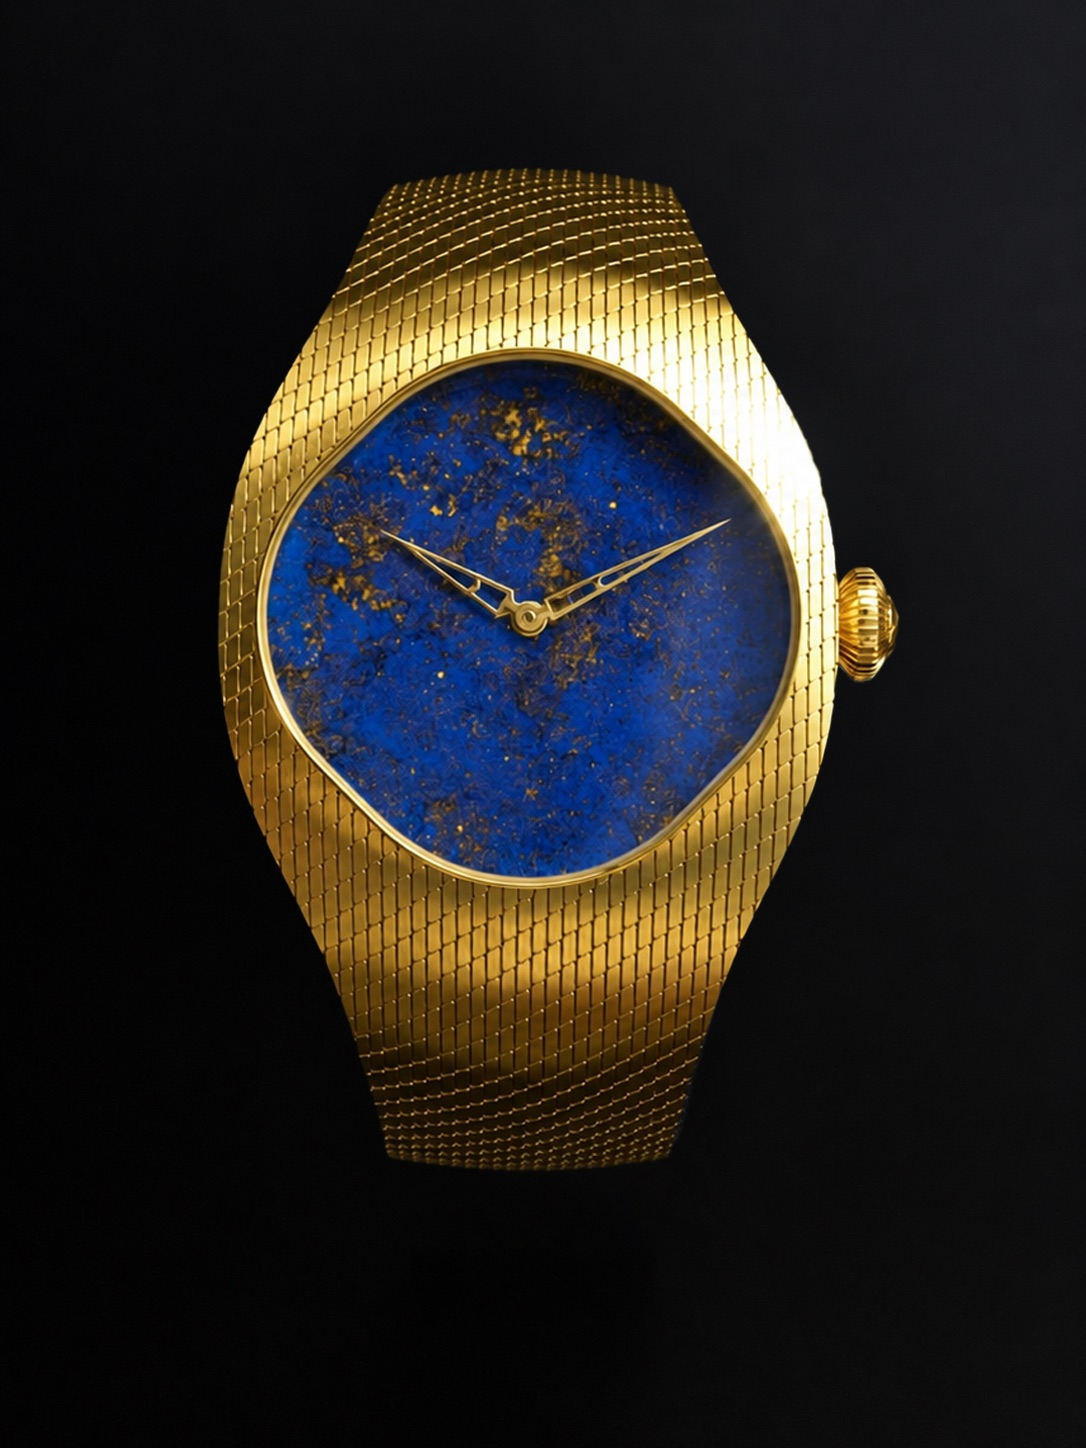
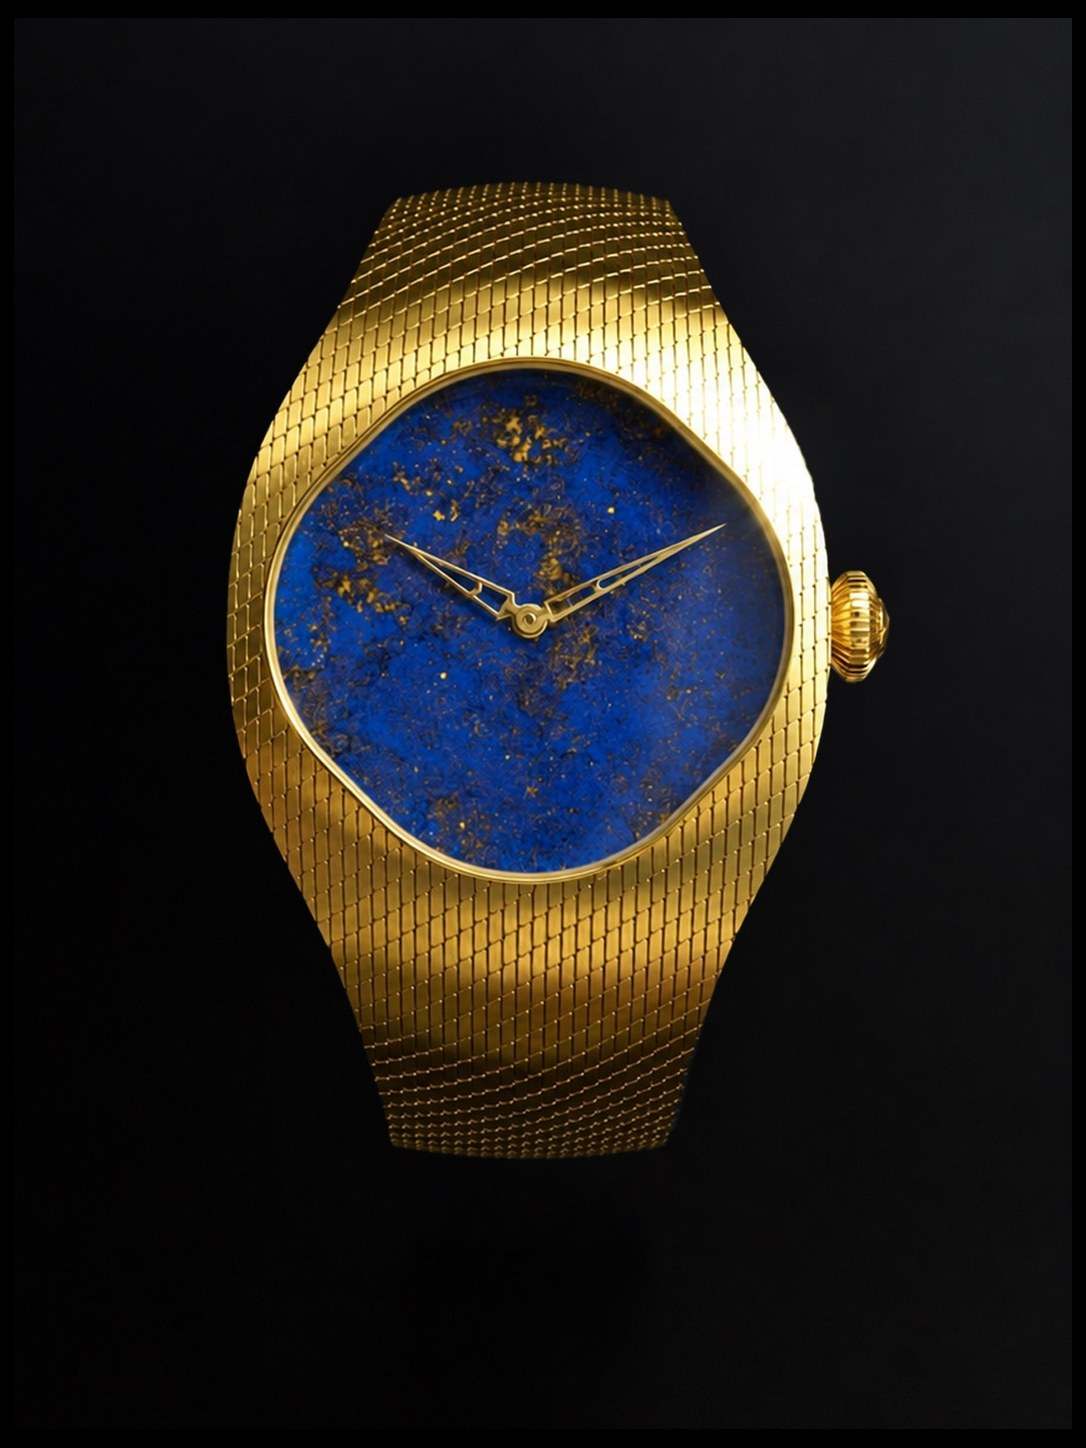
Fix hero crossfade ghosting, tighten Aurum card image scale
- Hero crossfade now uses AnimatePresence mode="wait" instead of
  "sync" — the old/new images faded simultaneously, so a shopper could
  catch two different watches superimposed mid-transition, looking
  like a misaligned double exposure. Now one fully fades out before
  the next fades in. Also shortened the transition to 0.6s.
- Scaled the Contour Aurum card image down ~2.5% so its watch-to-frame
  ratio matches the Nacre/Onyx card images almost exactly (was ~80%
  fill vs. their ~78-79%)

Changed region(s): [[0.1823, 0.0932, 0.8508, 0.808], [0.6381, 0.0, 1.0, 0.4351], [0.4254, 0.4972, 0.4558, 0.5283]]

diff --git a/src/components/pages/CollectionDetail.tsx b/src/components/pages/CollectionDetail.tsx
@@ -367,13 +367,19 @@ export default function CollectionDetail({ collection, initialVariantSlug }: { c
               c.image;
             return heroSrc ? (
               heroFrames.length > 1 ? (
-                <AnimatePresence mode="sync">
+                // mode="wait" (not "sync") — the outgoing image fully fades
+                // out before the incoming one fades in. With "sync" both
+                // were visible simultaneously mid-transition, so a shopper
+                // could catch two different watches ghosted together
+                // (looked like the wrong watch, or a misaligned double
+                // exposure, if the two hero shots aren't framed identically).
+                <AnimatePresence mode="wait">
                   <motion.div
                     key={heroSrc}
                     initial={{ opacity: 0 }}
                     animate={{ opacity: 1 }}
                     exit={{ opacity: 0 }}
-                    transition={{ duration: 1.2, ease: "easeInOut" }}
+                    transition={{ duration: 0.6, ease: "easeInOut" }}
                     className="absolute inset-0"
                   >
                     <Image
